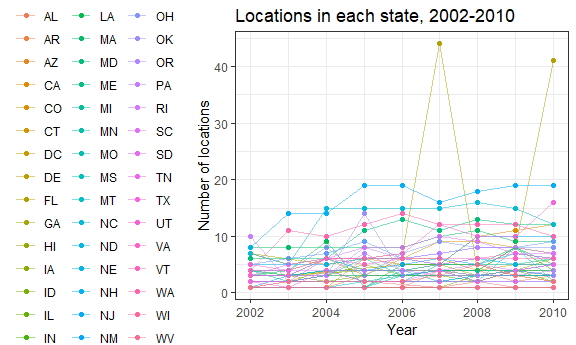
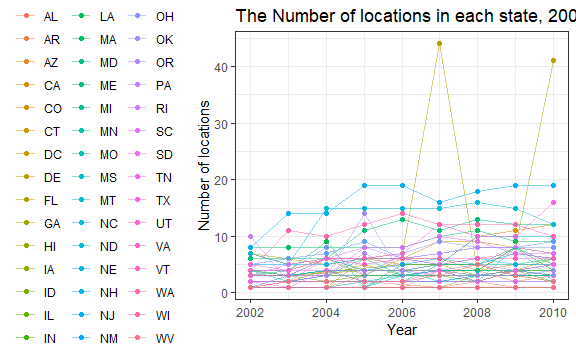
Finished Question 3 description and added comments for each question

Changed region(s): [[0.4062, 0.029, 1.0, 0.087]]

diff --git a/p8105_hw3_bg2604.md b/p8105_hw3_bg2604.md
@@ -23,6 +23,8 @@ p1_brfss=brfss_smart2010 %>%
   select(-locationabbr, year, state, county, response, everything())
 ```
 
+Answer: The names of variables are cleaned. Locationdesc is seperated into state and county, and Locationdesc is not selected in the final dataset. We then filtered only Overal Health topic and ordered responses from Excellent to Poor.
+
 #### Problem 1.1 In 2002, which states were observed at 7 locations?
 
 ``` r
@@ -52,14 +54,14 @@ p1_brfss %>%
   ggplot(aes(x = year, y = count, color = state)) + 
   geom_point() + 
   geom_line(alpha = .5) + 
-  labs( title = "Locations in each state, 2002-2010",
+  labs( title = "The Number of locations in each state, 2002-2010",
     x = "Year",
     y = "Number of locations"
     ) + 
   theme(legend.position = "left")
 ```
 
-<img src="p8105_hw3_bg2604_files/figure-markdown_github/p1.2-1.png" width="90%" />
+<img src="p8105_hw3_bg2604_files/figure-markdown_github/p1.2-1.png" width="90%" /> Answer: We created a "spaghetti plot" shows the number of locations in each state from 2002 to 2010. From graph, we could see that for most states, the number of locations is below 20. However, Florida has two peak value above 40, one in 2007 and another in 2010.
 
 #### Problem 1.3 Make a table showing, for the years 2002, 2006, and 2010, the mean and standard deviation of the proportion of “Excellent” responses across locations in NY State.
 
@@ -76,17 +78,18 @@ brfss_p1.3 <- p1_brfss %>%
 brfss_p1.3
 ```
 
-| state | county             |  avg\_excellent|  sd\_excellent|
-|:------|:-------------------|---------------:|--------------:|
-| NY    | Bronx County       |            17.6|            NaN|
-| NY    | Erie County        |            17.2|            NaN|
-| NY    | Kings County       |            20.4|            1.8|
-| NY    | Monroe County      |            22.4|            NaN|
-| NY    | Nassau County      |            24.9|            2.8|
-| NY    | New York County    |            27.5|            1.5|
-| NY    | Queens County      |            19.6|            1.4|
-| NY    | Suffolk County     |            24.1|            3.3|
-| NY    | Westchester County |            26.4|            0.6|
+| state   | county                |    avg\_excellent|                                                                                                                                                                                            sd\_excellent|
+|:--------|:----------------------|-----------------:|--------------------------------------------------------------------------------------------------------------------------------------------------------------------------------------------------------:|
+| NY      | Bronx County          |              17.6|                                                                                                                                                                                                      NaN|
+| NY      | Erie County           |              17.2|                                                                                                                                                                                                      NaN|
+| NY      | Kings County          |              20.4|                                                                                                                                                                                                      1.8|
+| NY      | Monroe County         |              22.4|                                                                                                                                                                                                      NaN|
+| NY      | Nassau County         |              24.9|                                                                                                                                                                                                      2.8|
+| NY      | New York County       |              27.5|                                                                                                                                                                                                      1.5|
+| NY      | Queens County         |              19.6|                                                                                                                                                                                                      1.4|
+| NY      | Suffolk County        |              24.1|                                                                                                                                                                                                      3.3|
+| NY      | Westchester County    |              26.4|                                                                                                                                                                                                      0.6|
+| Answer: | The mean of the propo |  rtion of "Excell|  ent" responses is the highest in New York County, and the lowest in Erie County. The standard deviation ranges from 0.6 to 2.8. Bronx, Erie and Monroe counties have NA values from standard deviation.|
 
 #### Problem 1.4 For each year and state, compute the average proportion in each response category (taking the average across locations in a state). Make a five-panel plot that shows, for each response category separately, the distribution of these state-level averages over time.
 
@@ -116,11 +119,59 @@ p1_brfss %>%
   ) + theme(legend.position = "none",axis.text.x = element_text(angle = 45))
 ```
 
-<img src="p8105_hw3_bg2604_files/figure-markdown_github/p1.4-1.png" width="90%" />
+<img src="p8105_hw3_bg2604_files/figure-markdown_github/p1.4-1.png" width="90%" /> Answer: Five-panel plot were created for earch response in each state across years. A similar trend was observed for each state for each response type from 2002 to 2010.
 
 ### Problem 2
 
-Write a short description of the dataset, noting the size and structure of the data, describing some key variables, and giving illstrative examples of observations.
+#### Write a short description of the dataset, noting the size and structure of the data, describing some key variables, and giving illstrative examples of observations.
+
+``` r
+instacart
+```
+
+    ## # A tibble: 1,384,617 x 15
+    ##    order_id product_id add_to_cart_ord~ reordered user_id eval_set
+    ##       <int>      <int>            <int>     <int>   <int> <chr>   
+    ##  1        1      49302                1         1  112108 train   
+    ##  2        1      11109                2         1  112108 train   
+    ##  3        1      10246                3         0  112108 train   
+    ##  4        1      49683                4         0  112108 train   
+    ##  5        1      43633                5         1  112108 train   
+    ##  6        1      13176                6         0  112108 train   
+    ##  7        1      47209                7         0  112108 train   
+    ##  8        1      22035                8         1  112108 train   
+    ##  9       36      39612                1         0   79431 train   
+    ## 10       36      19660                2         1   79431 train   
+    ## # ... with 1,384,607 more rows, and 9 more variables: order_number <int>,
+    ## #   order_dow <int>, order_hour_of_day <int>,
+    ## #   days_since_prior_order <int>, product_name <chr>, aisle_id <int>,
+    ## #   department_id <int>, aisle <chr>, department <chr>
+
+``` r
+sum(is.na(instacart))
+```
+
+    ## [1] 0
+
+``` r
+nrow(distinct(instacart, order_id))
+```
+
+    ## [1] 131209
+
+``` r
+nrow(distinct(instacart, user_id))
+```
+
+    ## [1] 131209
+
+``` r
+nrow(distinct(instacart, product_id))
+```
+
+    ## [1] 39123
+
+Answer: This is a 1384617\*15 dataset without missing data. There are 131209 orders, 131209 users and 39123 products. The variables include information (id and name) of departments, aisles and products, and order information (eg. order id, number of order, order day).
 
 #### Problem 2.1 How many aisles are there, and which aisles are the most items ordered from?
 
@@ -146,7 +197,7 @@ instacart %>%
     ## 10 bread                          23635
     ## # ... with 124 more rows
 
-Answer: There are 134 aisles in the dataset. The fresh vegtables, frresh fruits, packaged vegetables fruits are the top three aisles with the most items ordered.
+Answer: There are 134 aisles in the dataset. The fresh vegtables, fresh fruits, packaged vegetables fruits are the top three aisles with the most items ordered.
 
 #### Problem 2.2 Make a plot that shows the number of items ordered in each aisle. Order aisles sensibly, and organize your plot so others can read it.
 
@@ -158,7 +209,7 @@ instacart_p2.2 <- instacart %>%
   ggplot(aes(x = aisle, y = item_count)) +
     geom_point() +
     facet_wrap(group ~ ., nrow = 3, scales = "free") +
-    theme(axis.text.x = element_text(size = 6, hjust = 1, angle = 50)) +
+    theme(axis.text.x = element_text(size = 6, hjust = 1, angle = 45)) +
     labs(
       title = "Number of items ordered in aisles",
       x = "Aisle Name",
@@ -167,7 +218,7 @@ instacart_p2.2 <- instacart %>%
 instacart_p2.2
 ```
 
-<img src="p8105_hw3_bg2604_files/figure-markdown_github/p2.2-1.png" width="90%" />
+<img src="p8105_hw3_bg2604_files/figure-markdown_github/p2.2-1.png" width="90%" /> Answer: We dividied the plot into 3 parts to make it more clear for readers to view. Fresh vegetables and fresh fruits have largest numbers of items ordered in aisles. Beauty products have the lowest number of items ordered.
 
 #### Problem 2.3 Make a table showing the most popular item in each of the aisles “baking ingredients”, “dog food care”, and “packaged vegetables fruits”.
 
@@ -202,12 +253,44 @@ instacart %>%
   knitr::kable()
 ```
 
-|  order\_dow|  Coffee Ice Cream|  Pink Lady Apples|
-|-----------:|-----------------:|-----------------:|
-|           0|          13.77419|          13.44118|
-|           1|          14.31579|          11.36000|
-|           2|          15.38095|          11.70213|
-|           3|          15.31818|          14.25000|
-|           4|          15.21739|          11.55172|
-|           5|          12.26316|          12.78431|
-|           6|          13.83333|          11.93750|
+|    order\_dow|     Coffee Ice Cream|                                                                                                                                                                                                                                                                                              Pink Lady Apples|
+|-------------:|--------------------:|-------------------------------------------------------------------------------------------------------------------------------------------------------------------------------------------------------------------------------------------------------------------------------------------------------------:|
+|             0|             13.77419|                                                                                                                                                                                                                                                                                                      13.44118|
+|             1|             14.31579|                                                                                                                                                                                                                                                                                                      11.36000|
+|             2|             15.38095|                                                                                                                                                                                                                                                                                                      11.70213|
+|             3|             15.31818|                                                                                                                                                                                                                                                                                                      14.25000|
+|             4|             15.21739|                                                                                                                                                                                                                                                                                                      11.55172|
+|             5|             12.26316|                                                                                                                                                                                                                                                                                                      12.78431|
+|             6|             13.83333|                                                                                                                                                                                                                                                                                                      11.93750|
+|  Answer: A ta|  ble showing the mea|  n hour of the day at which Pink Lady Apples and Coffee Ice Cream are ordered on each day of the week was created. 0 to 6 represents Sunday to Saturday in each week. The highest mean hour of the day at which Coffee Ice Cream are ordered is Tuesday (13.77), and Wednesday for Pinck Lady Apples (14.25).|
+
+### Problem 3
+
+#### Write a short description of the dataset, noting the size and structure of the data, describing some key variables, and indicating the extent to which missing data is an issue
+
+``` r
+ny_noaa %>% 
+  group_by(id) %>% 
+  summarize(prcp_na = sum(is.na(prcp)),
+            snow_na = sum(is.na(snow)),
+            snwd_na = sum(is.na(snwd)),
+            tmax_na = sum(is.na(tmax)),
+            tmin_na = sum(is.na(tmin)))
+```
+
+    ## # A tibble: 747 x 6
+    ##    id          prcp_na snow_na snwd_na tmax_na tmin_na
+    ##    <chr>         <int>   <int>   <int>   <int>   <int>
+    ##  1 US1NYAB0001      60     252     874    1157    1157
+    ##  2 US1NYAB0006      19     283     703     852     852
+    ##  3 US1NYAB0010     220     352     816     822     822
+    ##  4 US1NYAB0016      98     152     212     214     214
+    ##  5 US1NYAB0017     301     415     459     459     459
+    ##  6 US1NYAB0021       2      37      72     365     365
+    ##  7 US1NYAB0022     233     238     239     273     273
+    ##  8 US1NYAB0023     144     238     289     365     365
+    ##  9 US1NYAB0025      40      43      43     215     215
+    ## 10 US1NYAL0002      57     245     409     549     549
+    ## # ... with 737 more rows
+
+Answer: This is a 2595176\*7 dataset. The variables include NY weather station id, the date of observation, precipitation (mm), snowfall (mm), snow depth (mm), and the maximum and minimum temperatures (tenths of degrees C).
